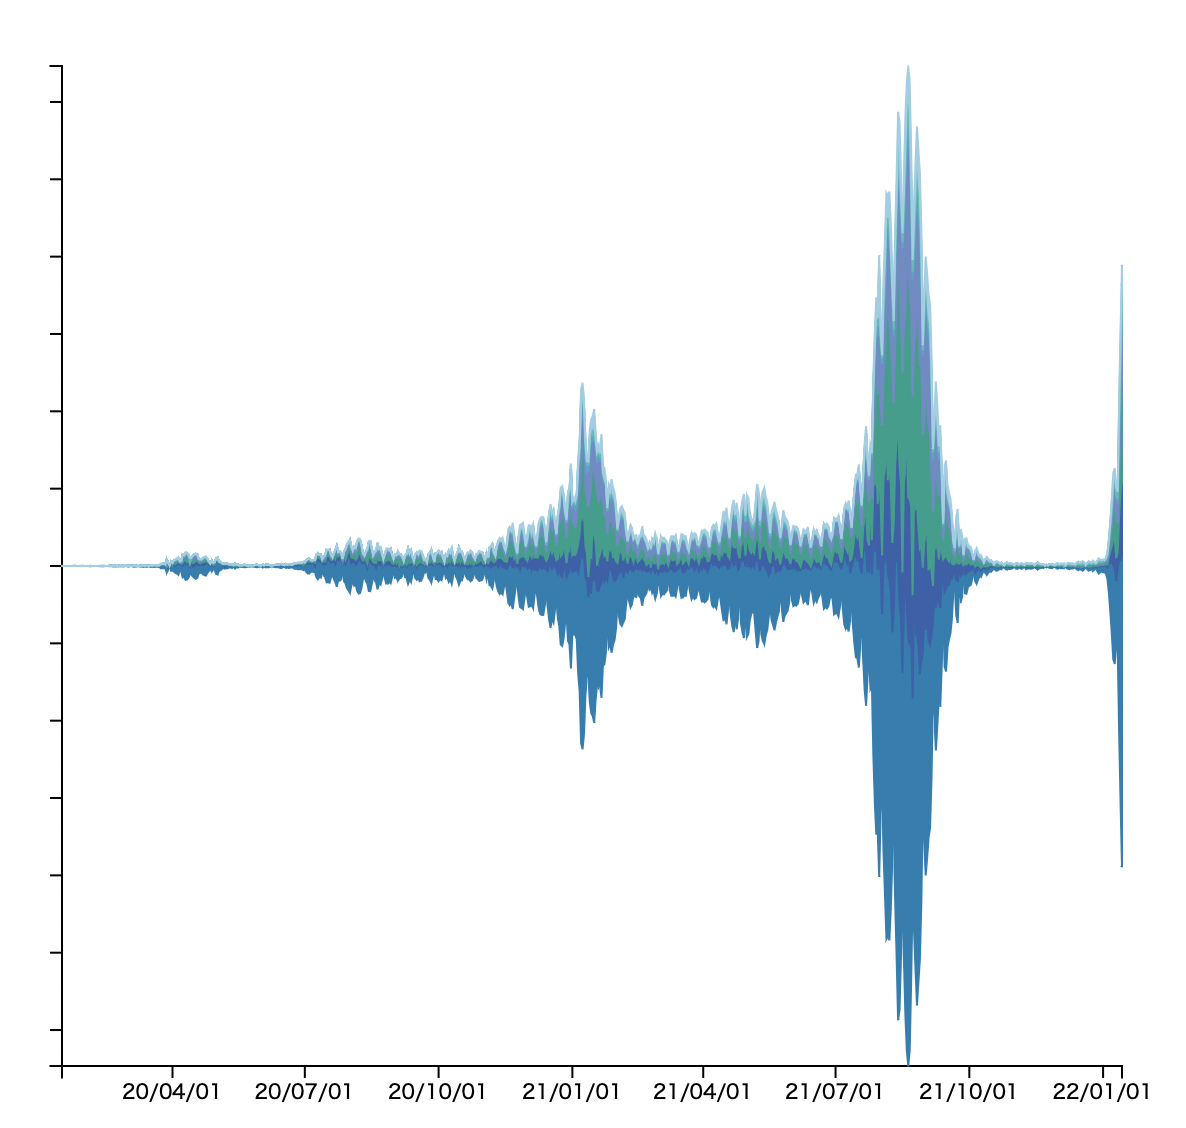
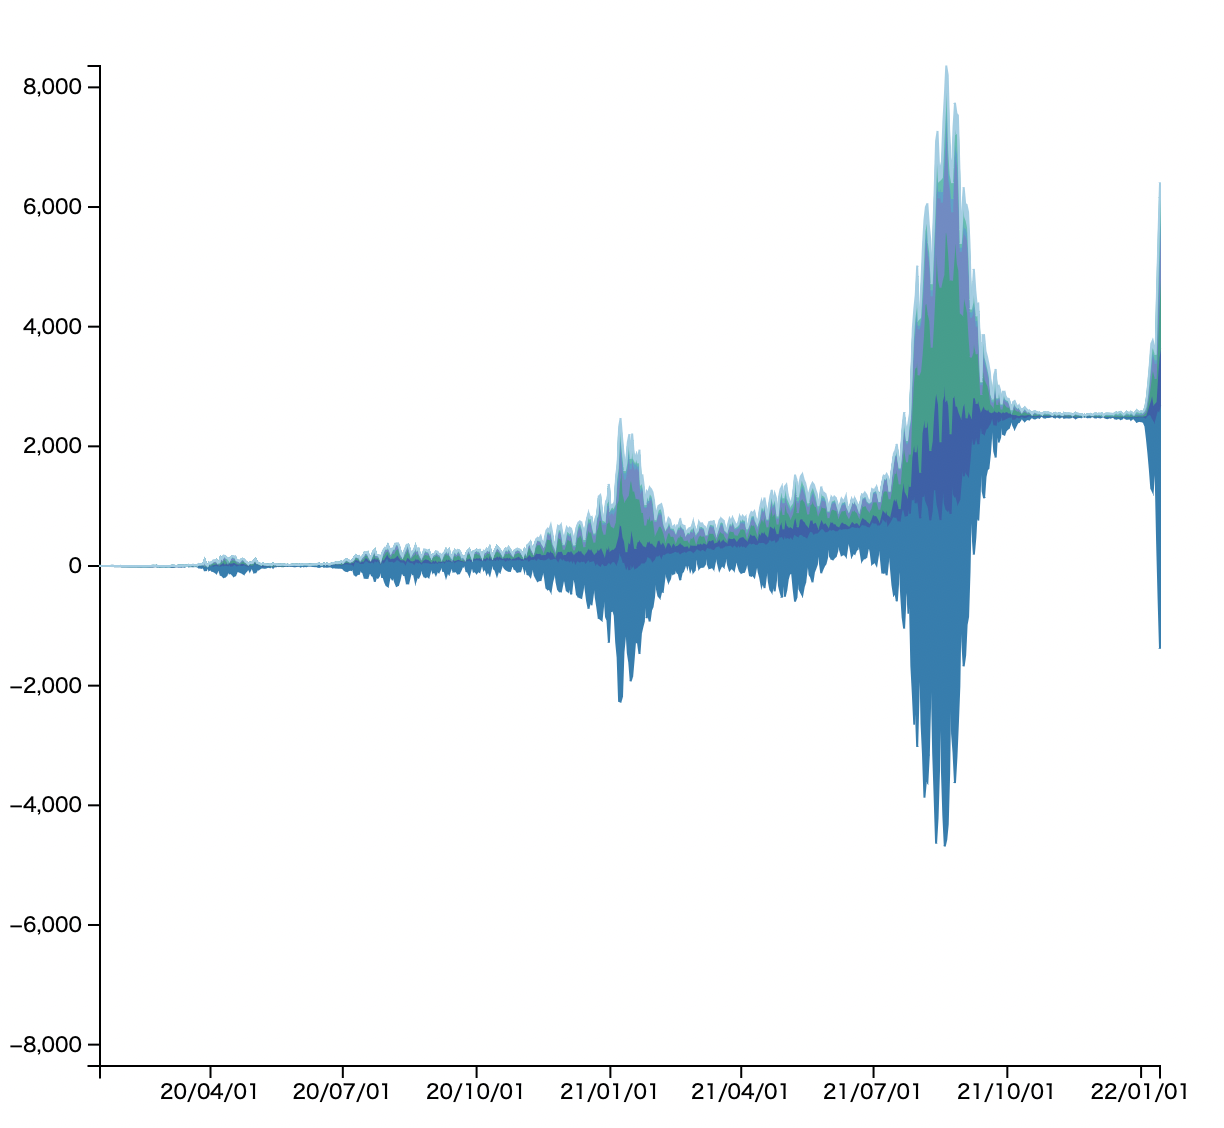
stream grap

diff --git a/src/main.ts b/src/main.ts
@@ -41,8 +41,7 @@ function draw(data: DSVRowArray): void {
     // 使うキー
     const keys: string[] = ["Tokyo", "Saitama", "Kanagawa", "Chiba", "Tochigi", "Gunma", "Ibaraki"];
     const stakedData: any = d3.stack()
-        // .offset(d3.stackOffsetWiggle)
-        .offset(d3.stackOffsetSilhouette) // これでいいはず
+        .offset(d3.stackOffsetWiggle)
         .keys(keys)(<any>data);
 
     // 一番上に積み上げられたデータの最大値,最小値
@@ -64,8 +63,6 @@ function draw(data: DSVRowArray): void {
     let yLabel: any = svg.append("g")
         .attr("transform", "translate(" + marginLeft + "," + marginTop + ")")
         .call(d3.axisLeft(yScale));
-    yLabel.selectAll("text")
-        .attr("display", "none")
 
     const colorScale = d3.scaleOrdinal()
         .domain(keys)
